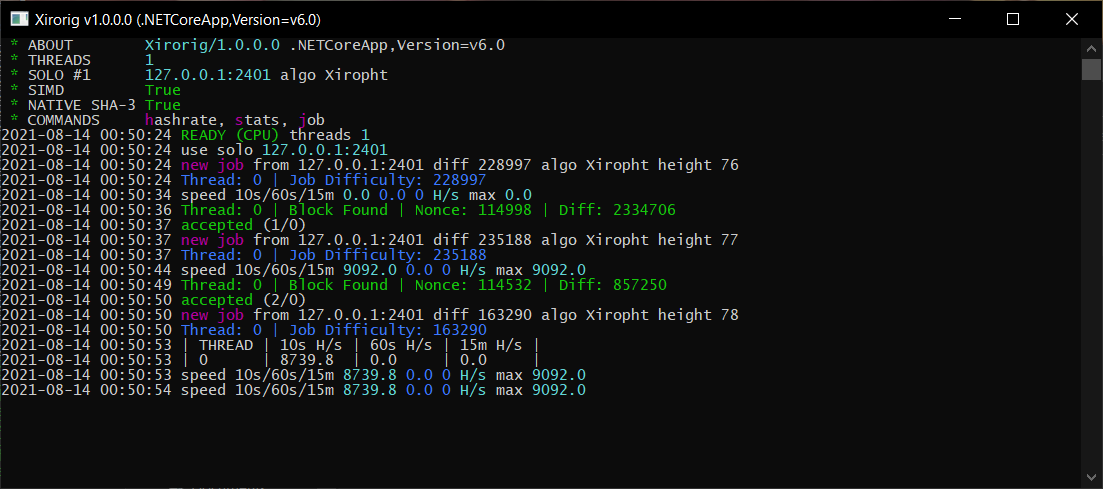
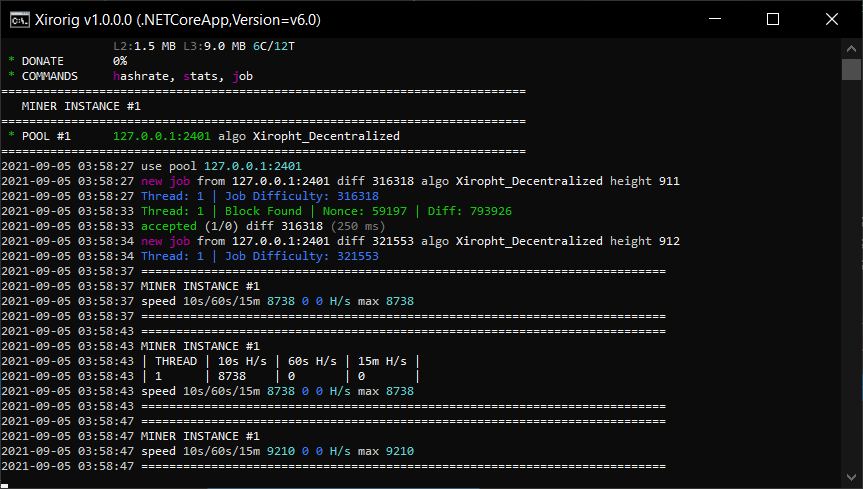
OMG

diff --git a/Xirorig/Miner/MinerInstance.cs b/Xirorig/Miner/MinerInstance.cs
@@ -13,7 +13,7 @@ using CpuMiner = Xirorig.Miner.Backend.CpuMiner;
 
 namespace Xirorig.Miner
 {
-    internal class MinerInstance
+    internal class MinerInstance : IDisposable
     {
         private readonly ApplicationContext _context;
         private readonly Options.MinerInstance _minerInstance;
@@ -26,17 +26,14 @@ namespace Xirorig.Miner
         private readonly Timer _calculateAverageHashCalculatedIn10Seconds;
         private readonly Timer _calculateAverageHashCalculatedIn60Seconds;
         private readonly Timer _calculateAverageHashCalculatedIn15Minutes;
-        private readonly Timer _calculateTotalAverageHash;
 
-        private INetwork _currentNetwork;
+        private INetwork? _currentNetwork;
         private int _currentNetworkIndex = 0;
         private int _retryCount;
 
         public long[] AverageHashCalculatedIn10Seconds { get; }
         public long[] AverageHashCalculatedIn60Seconds { get; }
         public long[] AverageHashCalculatedIn15Minutes { get; }
-
-        public long MaxHash { get; private set; }
 
         public long TotalGoodJobsSubmitted { get; private set; }
         public long TotalBadJobsSubmitted { get; private set; }
@@ -65,7 +62,6 @@ namespace Xirorig.Miner
             context.Logger.LogInformation("{Dash:l}", false, "=".PadRight(75, '='));
 
             _devNetworks = NetworkUtility.CreateDevNetworks(context);
-            _currentNetwork = _networks[_currentNetworkIndex];
 
             var cpuMiner = minerInstance.GetCpuMiner();
             var numberOfThreads = cpuMiner.GetNumberOfThreads();
@@ -75,8 +71,7 @@ namespace Xirorig.Miner
             _calculateAverageHashCalculatedIn10Seconds = new Timer(CalculateAverageHashCalculatedIn10Seconds, null, Timeout.Infinite, Timeout.Infinite);
             _calculateAverageHashCalculatedIn60Seconds = new Timer(CalculateAverageHashCalculatedIn60Seconds, null, Timeout.Infinite, Timeout.Infinite);
             _calculateAverageHashCalculatedIn15Minutes = new Timer(CalculateAverageHashCalculatedIn15Minutes, null, Timeout.Infinite, Timeout.Infinite);
-            _calculateTotalAverageHash = new Timer(CalculateTotalAverageHash, null, Timeout.Infinite, Timeout.Infinite);
-
+ 
             AverageHashCalculatedIn10Seconds = new long[numberOfThreads];
             AverageHashCalculatedIn60Seconds = new long[numberOfThreads];
             AverageHashCalculatedIn15Minutes = new long[numberOfThreads];
@@ -84,54 +79,64 @@ namespace Xirorig.Miner
 
         public void StartInstance()
         {
+            SwapNetwork(_networks[_currentNetworkIndex]);
+
+            _calculateAverageHashCalculatedIn10Seconds.Change(TimeSpan.FromSeconds(10), TimeSpan.FromSeconds(10));
+            _calculateAverageHashCalculatedIn60Seconds.Change(TimeSpan.FromSeconds(60), TimeSpan.FromSeconds(60));
+            _calculateAverageHashCalculatedIn15Minutes.Change(TimeSpan.FromMinutes(15), TimeSpan.FromMinutes(15));
+        }
+
+        public void StopInstance()
+        {
+            foreach (var cpuMiner in _cpuMiners)
+            {
+                cpuMiner?.StopMining();
+            }
+
+            _currentNetwork?.StopNetwork();
+
+            _calculateAverageHashCalculatedIn10Seconds.Change(Timeout.Infinite, Timeout.Infinite);
+            _calculateAverageHashCalculatedIn60Seconds.Change(Timeout.Infinite, Timeout.Infinite);
+            _calculateAverageHashCalculatedIn15Minutes.Change(Timeout.Infinite, Timeout.Infinite);
+        }
+
+        private void SwapNetwork(INetwork network)
+        {
+            if (_currentNetwork != null)
+            {
+                _currentNetwork.StopNetwork();
+                UnregisterNetworkEvent(_currentNetwork);
+            }
+
             var cpuMinerConfig = _minerInstance.GetCpuMiner();
             var cpuMinerThreads = cpuMinerConfig.GetThreads();
             var pool = _minerInstance.GetPools();
 
             for (var i = 0; i < _cpuMiners.Length; i++)
             {
-                if (_cpuMiners[i] == null)
-                {
-                    var cpuMiner = CpuMiner.CreateCpuMiner(i + 1, cpuMinerThreads[i], _context.ApplicationShutdownCancellationToken, pool[_currentNetworkIndex]);
-                    cpuMiner.JobLog += CurrentCpuMinerOnJobLog;
-                    cpuMiner.JobResultFound += CurrentCpuMinerOnJobResultFound;
-                    cpuMiner.StartMining();
+                var cpuMiner = _cpuMiners[i];
 
-                    _cpuMiners[i] = cpuMiner;
+                if (cpuMiner == null)
+                {
+                    var newCpuMiner = CpuMiner.CreateCpuMiner(i + 1, cpuMinerThreads[i], _context.ApplicationShutdownCancellationToken, pool[_currentNetworkIndex]);
+                    RegisterCpuMinerEvent(newCpuMiner);
+                    newCpuMiner.StartMining();
+
+                    _cpuMiners[i] = newCpuMiner;
                 }
                 else
                 {
-                    _cpuMiners[i]!.StopMining();
-                    _cpuMiners[i]!.Dispose();
-                    _cpuMiners[i]!.JobLog -= CurrentCpuMinerOnJobLog;
-                    _cpuMiners[i]!.JobResultFound -= CurrentCpuMinerOnJobResultFound;
+                    cpuMiner.StopMining();
+                    cpuMiner.Dispose();
+                    UnregisterCpuMinerEvent(cpuMiner);
 
-                    var cpuMiner = CpuMiner.CreateCpuMiner(i + 1, cpuMinerThreads[i], _context.ApplicationShutdownCancellationToken, pool[_currentNetworkIndex]);
-                    cpuMiner.JobLog += CurrentCpuMinerOnJobLog;
-                    cpuMiner.JobResultFound += CurrentCpuMinerOnJobResultFound;
-                    cpuMiner.StartMining();
+                    var newCpuMiner = CpuMiner.CreateCpuMiner(i + 1, cpuMinerThreads[i], _context.ApplicationShutdownCancellationToken, pool[_currentNetworkIndex]);
+                    RegisterCpuMinerEvent(newCpuMiner);
+                    newCpuMiner.StartMining();
 
-                    _cpuMiners[i] = cpuMiner;
+                    _cpuMiners[i] = newCpuMiner;
                 }
             }
-
-            RegisterNetworkEvent(_currentNetwork);
-            _currentNetwork.StartNetwork();
-
-            _calculateAverageHashCalculatedIn10Seconds.Change(TimeSpan.FromSeconds(10), TimeSpan.FromSeconds(10));
-            _calculateAverageHashCalculatedIn60Seconds.Change(TimeSpan.FromSeconds(60), TimeSpan.FromSeconds(60));
-            _calculateAverageHashCalculatedIn15Minutes.Change(TimeSpan.FromMinutes(15), TimeSpan.FromMinutes(15));
-            _calculateTotalAverageHash.Change(TimeSpan.FromSeconds(_context.Options.GetPrintTime()), TimeSpan.FromSeconds(_context.Options.GetPrintTime()));
-        }
-
-        public void StopInstance()
-        {
-        }
-
-        private void SwapNetwork(INetwork network)
-        {
-            _currentNetwork.StopNetwork();
-            UnregisterNetworkEvent(_currentNetwork);
 
             _currentNetwork = network;
 
@@ -155,6 +160,18 @@ namespace Xirorig.Miner
             network.NewJob -= CurrentNetworkOnNewJob;
         }
 
+        private void RegisterCpuMinerEvent(CpuMiner cpuMiner)
+        {
+            cpuMiner.JobLog += CurrentCpuMinerOnJobLog;
+            cpuMiner.JobResultFound += CurrentCpuMinerOnJobResultFound;
+        }
+
+        private void UnregisterCpuMinerEvent(CpuMiner cpuMiner)
+        {
+            cpuMiner.JobLog -= CurrentCpuMinerOnJobLog;
+            cpuMiner.JobResultFound -= CurrentCpuMinerOnJobResultFound;
+        }
+
         private void CurrentNetworkOnConnected(Pool pool, Exception? exception)
         {
             _context.Logger.LogInformation($"{AnsiEscapeCodeConstants.DarkGrayForegroundColor}use pool{AnsiEscapeCodeConstants.Reset} {AnsiEscapeCodeConstants.CyanForegroundColor}{{Pool:l}}{AnsiEscapeCodeConstants.Reset}", true, pool.GetUrl());
@@ -176,7 +193,14 @@ namespace Xirorig.Miner
             if (_retryCount >= _context.Options.GetMaxRetryCount())
             {
                 _retryCount = 0;
+                _currentNetworkIndex++;
 
+                if (_currentNetworkIndex >= _networks.Length)
+                {
+                    _currentNetworkIndex = 0;
+                }
+
+                SwapNetwork(_networks[_currentNetworkIndex]);
             }
         }
 
@@ -211,6 +235,7 @@ namespace Xirorig.Miner
 
         private async void CurrentCpuMinerOnJobResultFound(IJobTemplate jobTemplate, IJobResult jobResult)
         {
+            if (_currentNetwork == null) return;
             await _currentNetwork.SubmitJobAsync(jobTemplate, jobResult);
         }
 
@@ -250,20 +275,21 @@ namespace Xirorig.Miner
             }
         }
 
-        private void CalculateTotalAverageHash(object? state)
+        public void Dispose()
         {
-            long average10SecondsSum = 0, average60SecondsSum = 0, average15MinutesSum = 0;
-            var threadCount = _cpuMiners.Length;
+            _calculateAverageHashCalculatedIn10Seconds.Dispose();
+            _calculateAverageHashCalculatedIn60Seconds.Dispose();
+            _calculateAverageHashCalculatedIn15Minutes.Dispose();
 
-            for (var i = 0; i < threadCount; i++)
+            foreach (var network in _networks)
             {
-                average10SecondsSum += AverageHashCalculatedIn10Seconds[i];
-                average60SecondsSum += AverageHashCalculatedIn60Seconds[i];
-                average15MinutesSum += AverageHashCalculatedIn15Minutes[i];
+                network.Dispose();
             }
 
-            MaxHash = Math.Max(MaxHash, average10SecondsSum);
-            _context.Logger.LogInformation($"speed 10s/60s/15m {AnsiEscapeCodeConstants.CyanForegroundColor}{{Average10SecondsSum:F0}}{AnsiEscapeCodeConstants.Reset} {AnsiEscapeCodeConstants.BlueForegroundColor}{{Average60SecondsSum:F0}} {{Average15MinutesSum:F0}}{AnsiEscapeCodeConstants.Reset} {AnsiEscapeCodeConstants.CyanForegroundColor}H/s{AnsiEscapeCodeConstants.Reset} max {AnsiEscapeCodeConstants.CyanForegroundColor}{{MaxHash:F0}}{AnsiEscapeCodeConstants.Reset}", true, average10SecondsSum, average60SecondsSum, average15MinutesSum, MaxHash);
+            foreach (var cpuMiner in _cpuMiners)
+            {
+                cpuMiner?.Dispose();
+            }
         }
     }
 }

diff --git a/Xirorig/ProgramHostedService.cs b/Xirorig/ProgramHostedService.cs
@@ -14,12 +14,16 @@ namespace Xirorig
         private readonly ApplicationContext _context;
         private readonly Thread _consoleThread;
 
+        private readonly Timer _calculateTotalAverageHash;
+
         private MinerInstance[] _minerInstances = Array.Empty<MinerInstance>();
+        private long[] _maxHashes = Array.Empty<long>();
 
         public ProgramHostedService(ApplicationContext context)
         {
             _context = context;
             _consoleThread = new Thread(StartConsoleThread) { Name = "Console Thread", IsBackground = true };
+            _calculateTotalAverageHash = new Timer(CalculateTotalAverageHash, null, Timeout.Infinite, Timeout.Infinite);
         }
 
         public Task StartAsync(CancellationToken cancellationToken)
@@ -43,6 +47,7 @@ namespace Xirorig
                 var minerInstances = _context.Options.GetMinerInstances();
 
                 _minerInstances = new MinerInstance[minerInstances.Length];
+                _maxHashes = new long[minerInstances.Length];
 
                 for (var i = 0; i < minerInstances.Length; i++)
                 {
@@ -53,6 +58,8 @@ namespace Xirorig
                 {
                     _minerInstances[i].StartInstance();
                 }
+
+                _calculateTotalAverageHash.Change(TimeSpan.FromSeconds(_context.Options.GetPrintTime()), TimeSpan.FromSeconds(_context.Options.GetPrintTime()));
             }
             catch (Exception exception)
             {
@@ -64,6 +71,11 @@ namespace Xirorig
 
         public Task StopAsync(CancellationToken cancellationToken)
         {
+            foreach (var minerInstance in _minerInstances)
+            {
+                minerInstance.StopInstance();
+            }
+
             return Task.CompletedTask;
         }
 
@@ -78,7 +90,36 @@ namespace Xirorig
                 switch (keyPressed.KeyChar)
                 {
                     case 'h':
+                    {
+                        _context.Logger.LogInformation("{Dash:l}", true, "=".PadRight(75, '='));
+
+                        for (var index = 0; index < _minerInstances.Length; index++)
+                        {
+                            var minerInstance = _minerInstances[index];
+                            long average10SecondsSum = 0, average60SecondsSum = 0, average15MinutesSum = 0;
+                            var threadCount = minerInstance.AverageHashCalculatedIn10Seconds.Length;
+
+                            for (var i = 0; i < threadCount; i++)
+                            {
+                                average10SecondsSum += minerInstance.AverageHashCalculatedIn10Seconds[i];
+                                average60SecondsSum += minerInstance.AverageHashCalculatedIn60Seconds[i];
+                                average15MinutesSum += minerInstance.AverageHashCalculatedIn15Minutes[i];
+                            }
+
+                            _context.Logger.LogInformation("MINER INSTANCE #{Index}", true, index + 1);
+                            _context.Logger.LogInformation("| THREAD | 10s H/s | 60s H/s | 15m H/s |", true);
+
+                            for (var i = 0; i < threadCount; i++)
+                            {
+                                _context.Logger.LogInformation("| {i,-6} | {j,-7:F0} | {k,-7:F0} | {l,-7:F0} |", true, i + 1, minerInstance.AverageHashCalculatedIn10Seconds[i], minerInstance.AverageHashCalculatedIn60Seconds[i], minerInstance.AverageHashCalculatedIn15Minutes[i]);
+                            }
+
+                            _context.Logger.LogInformation($"{AnsiEscapeCodeConstants.WhiteForegroundColor}speed{AnsiEscapeCodeConstants.Reset} {AnsiEscapeCodeConstants.DarkGrayForegroundColor}10s/60s/15m{AnsiEscapeCodeConstants.Reset} {AnsiEscapeCodeConstants.CyanForegroundColor}{{Average10SecondsSum:F0}}{AnsiEscapeCodeConstants.Reset} {AnsiEscapeCodeConstants.BlueForegroundColor}{{Average60SecondsSum:F0}} {{Average15MinutesSum:F0}}{AnsiEscapeCodeConstants.Reset} {AnsiEscapeCodeConstants.CyanForegroundColor}H/s{AnsiEscapeCodeConstants.Reset} {AnsiEscapeCodeConstants.DarkGrayForegroundColor}max{AnsiEscapeCodeConstants.Reset} {AnsiEscapeCodeConstants.CyanForegroundColor}{{MaxHash:F0}}{AnsiEscapeCodeConstants.Reset}", true, average10SecondsSum, average60SecondsSum, average15MinutesSum, _maxHashes[index]);
+                        }
+
+                        _context.Logger.LogInformation("{Dash:l}", true, "=".PadRight(75, '='));
                         break;
+                    }
 
                     case 's':
                         break;
@@ -89,8 +130,38 @@ namespace Xirorig
             }
         }
 
+        private void CalculateTotalAverageHash(object? state)
+        {
+            _context.Logger.LogInformation("{Dash:l}", true, "=".PadRight(75, '='));
+
+            for (var index = 0; index < _minerInstances.Length; index++)
+            {
+                var minerInstance = _minerInstances[index];
+                long average10SecondsSum = 0, average60SecondsSum = 0, average15MinutesSum = 0;
+                var threadCount = minerInstance.AverageHashCalculatedIn15Minutes.Length;
+
+                for (var i = 0; i < threadCount; i++)
+                {
+                    average10SecondsSum += minerInstance.AverageHashCalculatedIn10Seconds[i];
+                    average60SecondsSum += minerInstance.AverageHashCalculatedIn60Seconds[i];
+                    average15MinutesSum += minerInstance.AverageHashCalculatedIn15Minutes[i];
+                }
+
+                _maxHashes[index] = Math.Max(Math.Max(Math.Max(_maxHashes[index], average10SecondsSum), average60SecondsSum), average15MinutesSum);
+
+                _context.Logger.LogInformation("MINER INSTANCE #{Index}", true, index + 1);
+                _context.Logger.LogInformation($"{AnsiEscapeCodeConstants.WhiteForegroundColor}speed{AnsiEscapeCodeConstants.Reset} {AnsiEscapeCodeConstants.DarkGrayForegroundColor}10s/60s/15m{AnsiEscapeCodeConstants.Reset} {AnsiEscapeCodeConstants.CyanForegroundColor}{{Average10SecondsSum:F0}}{AnsiEscapeCodeConstants.Reset} {AnsiEscapeCodeConstants.BlueForegroundColor}{{Average60SecondsSum:F0}} {{Average15MinutesSum:F0}}{AnsiEscapeCodeConstants.Reset} {AnsiEscapeCodeConstants.CyanForegroundColor}H/s{AnsiEscapeCodeConstants.Reset} {AnsiEscapeCodeConstants.DarkGrayForegroundColor}max{AnsiEscapeCodeConstants.Reset} {AnsiEscapeCodeConstants.CyanForegroundColor}{{MaxHash:F0}}{AnsiEscapeCodeConstants.Reset}", true, average10SecondsSum, average60SecondsSum, average15MinutesSum, _maxHashes[index]);
+            }
+
+            _context.Logger.LogInformation("{Dash:l}", true, "=".PadRight(75, '='));
+        }
+
         public void Dispose()
         {
+            foreach (var minerInstance in _minerInstances)
+            {
+                minerInstance.Dispose();
+            }
         }
     }
 }

diff --git a/Xirorig/Miner/Backend/CpuMiner.cs b/Xirorig/Miner/Backend/CpuMiner.cs
@@ -121,6 +121,7 @@ namespace Xirorig.Miner.Backend
         public void StopMining()
         {
             _cancellationTokenSource.Cancel();
+            _jobTemplateQueue.CompleteAdding();
             _thread.Join();
         }
 
@@ -182,7 +183,7 @@ namespace Xirorig.Miner.Backend
 
                 while (!_cancellationTokenSource.IsCancellationRequested)
                 {
-                    var newJobTemplate = _jobTemplateQueue.Take();
+                    var newJobTemplate = _jobTemplateQueue.Take(_cancellationTokenSource.Token);
 
                     while (_jobTemplateQueue.TryTake(out var jobTemplate))
                     {
@@ -194,6 +195,10 @@ namespace Xirorig.Miner.Backend
 
                     ExecuteJob(newJobTemplate, _jobCancellationTokenSource.Token);
                 }
+            }
+            catch (Exception)
+            {
+                // ignored
             }
             finally
             {
